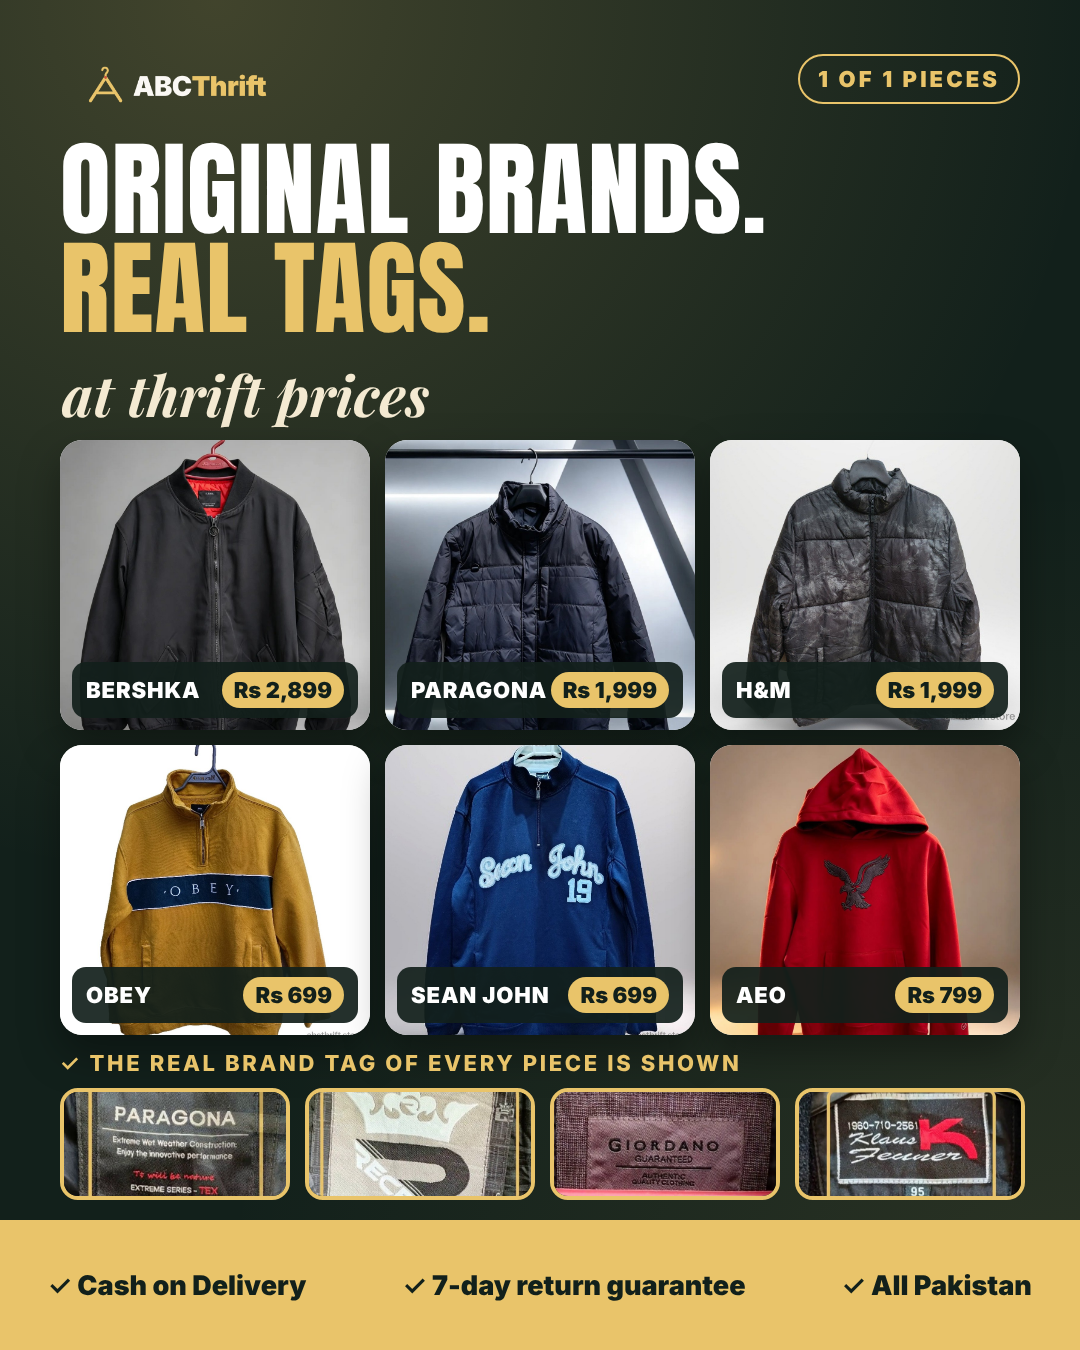
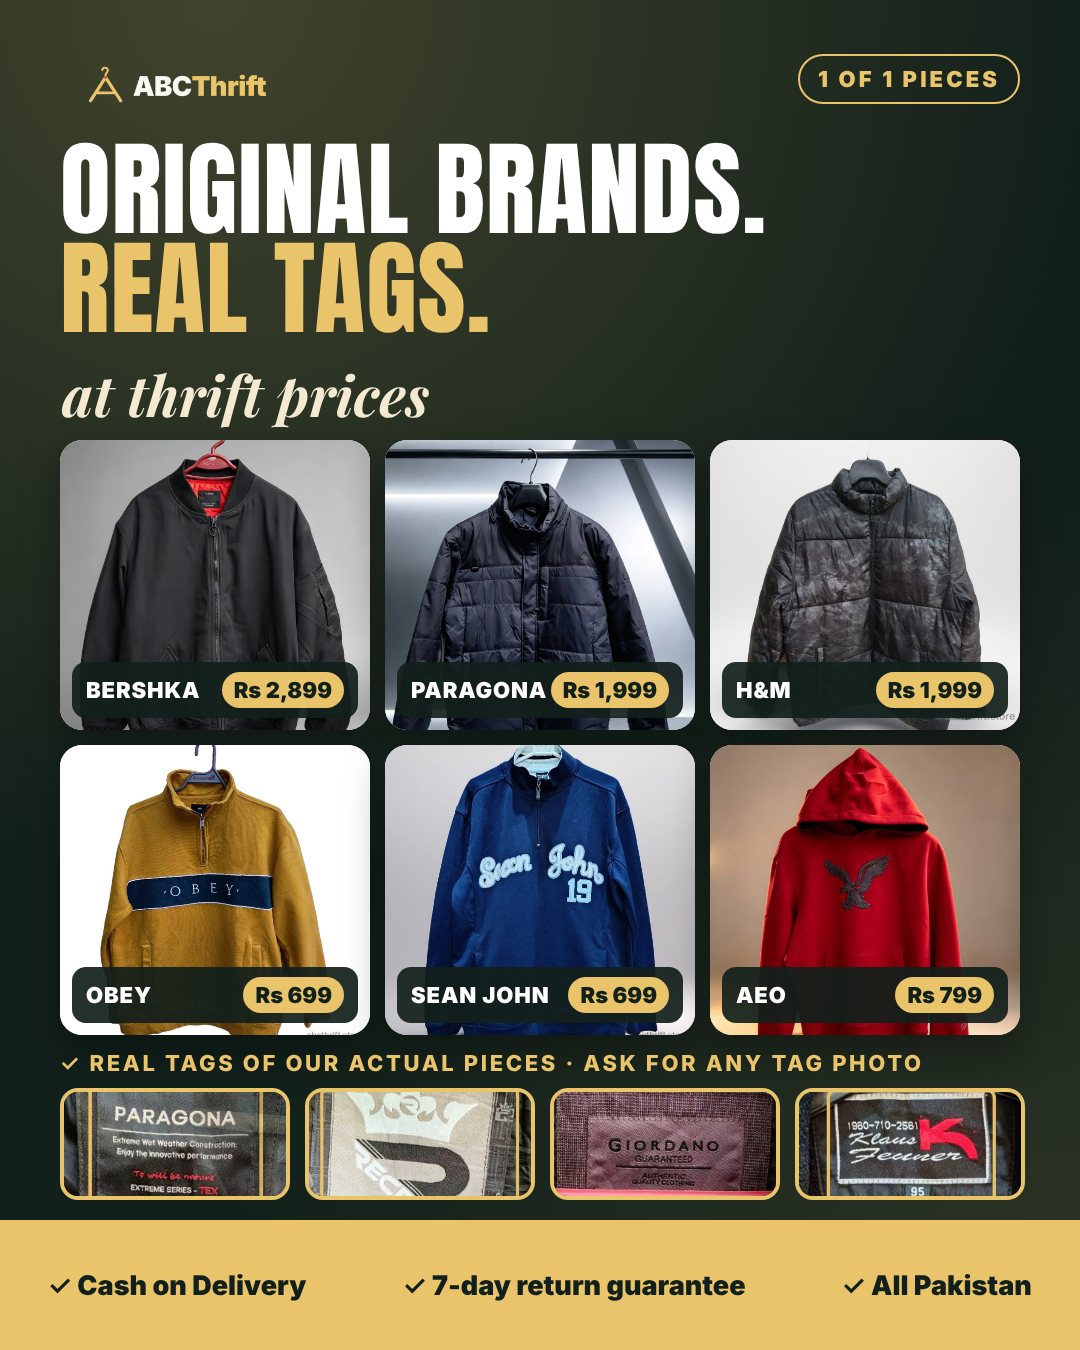
Ad creatives: tag photo on request instead of tag on every listing
Claude-Session: https://claude.ai/code/session_01Ve5E1aWJsiPtmcru3hCvbu

Changed region(s): [[0.0917, 0.7778, 0.7028, 0.8089], [0.7333, 0.7778, 0.8556, 0.8089]]

diff --git a/promo/src/ads-nov12.js b/promo/src/ads-nov12.js
@@ -30,7 +30,7 @@ P['111-ad-feed-real-brands']=[1080,1350,`<div class="a glow" style="inset:0"></d
 <div class="a an" style="left:60px;top:140px;font-size:104px">ORIGINAL BRANDS.<br><span style="color:${G}">REAL TAGS.</span></div>
 <div class="a pf" style="left:62px;top:356px;font-size:56px;color:#f4ead2">at thrift prices</div>
 ${HERO.map(([s,b,p],i)=>card(s,b,p,60+(i%3)*325,440+Math.floor(i/3)*305,310,290)).join('')}
-<div class="a" style="left:60px;top:1050px;font-size:22px;font-weight:800;letter-spacing:.12em;color:${G}">✓ THE REAL BRAND TAG OF EVERY PIECE IS SHOWN</div>
+<div class="a" style="left:60px;top:1050px;font-size:22px;font-weight:800;letter-spacing:.12em;color:${G}">✓ REAL TAGS OF OUR ACTUAL PIECES · ASK FOR ANY TAG PHOTO</div>
 ${TAGS.map(([n,b],i)=>`<div class="tag a" style="left:${60+i*245}px;top:1088px;width:230px;height:112px"><img src="${T(n)}"></div>`).join('')}
 <div class="a" style="left:60px;top:1172px;font-size:22px;font-weight:800;letter-spacing:.12em;color:${G}">REAL TAG OF THE ACTUAL PIECE ↓</div>
 <div class="a" style="left:0;top:1220px;width:1080px;height:130px;background:${G};color:${BG};display:flex;align-items:center;justify-content:space-around;font-weight:900;font-size:27px"><span>✓ Cash on Delivery</span><span>✓ 7-day return guarantee</span><span>✓ All Pakistan</span></div>
@@ -43,7 +43,7 @@ P['112-ad-story-real-brands']=[1080,1920,`<div class="a glow" style="inset:0"></
 <div class="a an" style="left:0;width:1080px;text-align:center;top:260px;font-size:118px">ORIGINAL BRANDS.<br><span style="color:${G}">REAL TAGS.</span></div>
 <div class="a pf" style="left:0;width:1080px;text-align:center;top:500px;font-size:64px;color:#f4ead2">at thrift prices</div>
 ${HERO.map(([s,b,p],i)=>card(s,b,p,60+(i%3)*325,620+Math.floor(i/3)*370,310,355)).join('')}
-<div class="a" style="left:60px;top:1385px;font-size:26px;font-weight:800;letter-spacing:.12em;color:${G}">✓ WE SHOW THE REAL BRAND TAG OF EVERY PIECE</div>
+<div class="a" style="left:60px;top:1385px;font-size:26px;font-weight:800;letter-spacing:.12em;color:${G}">✓ REAL TAGS OF OUR PIECES · ASK FOR ANY TAG PHOTO</div>
 ${tagRow(60,1430,225,13)}
 <div class="a" style="left:0;top:1700px;width:1080px;text-align:center;font-size:32px;font-weight:800;color:#f4ead2">Cash on Delivery · 7-day return guarantee · All Pakistan</div>
 ${foot(1810,1080)}`];
@@ -51,7 +51,7 @@ ${foot(1810,1080)}`];
 P['113-ad-feed-tag-proof']=[1080,1350,`<div class="a glow" style="inset:0"></div>
 <img class="a" src="${LOGOW}" style="left:60px;top:50px;width:230px">
 <div class="a an" style="left:60px;top:140px;font-size:96px">DON'T TRUST US.<br><span style="color:${G}">CHECK THE TAG.</span></div>
-<div class="a" style="left:62px;top:345px;font-size:32px;font-weight:600;color:#d6e0dc;width:960px;line-height:1.4">Every ABCThrift piece is shown with its own real brand tag, front and back photos. No copies, no stock photos.</div>
+<div class="a" style="left:62px;top:345px;font-size:32px;font-weight:600;color:#d6e0dc;width:960px;line-height:1.4">These are the real tags of our actual pieces. Want to see the tag of any item? WhatsApp us and we send the photo.</div>
 ${TAGS.map(([n,b],i)=>`<div class="tag a" style="left:${60+(i%2)*490}px;top:${480+Math.floor(i/2)*340}px;width:470px;height:320px"><img src="${T(n)}"><div class="a" style="left:14px;bottom:14px;background:rgba(18,32,27,.92);border-radius:12px;padding:8px 14px;font-weight:900;font-size:24px;letter-spacing:.06em">✓ ${b.toUpperCase()}</div></div>`).join('')}
 <div class="a" style="left:0;top:1170px;width:1080px;display:flex;justify-content:space-around;font-weight:900;font-size:27px;color:#f4ead2"><span>Jackets from Rs 999</span><span>Hoodies from Rs 599</span><span>Kids from Rs 399</span></div>
 ${foot(1240,1080)}`];
@@ -67,7 +67,7 @@ for(const [k,h,pr,br,items] of CATS){P[k]=[1080,1080,`<div class="a glow" style=
 <div class="a an" style="left:50px;top:${h.length>18?52:44}px;font-size:${h.length>18?58:76}px;width:760px">${h}</div>
 <div class="a" style="right:50px;top:50px;background:${G};color:${BG};font-weight:900;font-size:32px;padding:12px 22px;border-radius:999px">${pr}</div>
 ${items.map(([s,b,p],i)=>card(s,b,p,50+(i%2)*500,(h.length>18?230:150)+Math.floor(i/2)*(h.length>18?380:420),480,h.length>18?365:405)).join('')}
-<div class="a" style="left:50px;top:1000px;font-size:25px;font-weight:800;color:#f4ead2;width:980px;display:flex;justify-content:space-between"><span>✓ Real tag shown · ${br}</span></div>`];}
+<div class="a" style="left:50px;top:1000px;font-size:25px;font-weight:800;color:#f4ead2;width:980px;display:flex;justify-content:space-between"><span>✓ Brands: ${br} · ask for any tag photo</span></div>`];}
 P['114-car-0-intro']=[1080,1080,`<div class="a glow" style="inset:0"></div><img class="a" src="${LOGOW}" style="left:50px;top:50px;width:250px">
 <div class="a an" style="left:50px;top:150px;font-size:100px">ORIGINAL BRANDS.<br><span style="color:${G}">THRIFT PRICES.</span></div>
 ${tagRow(50,430,232,17)}
